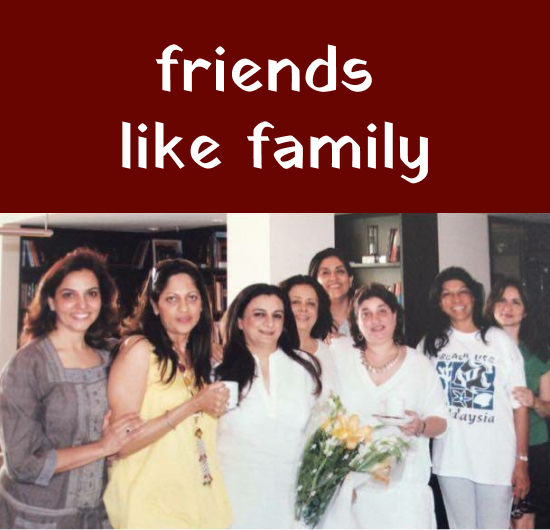
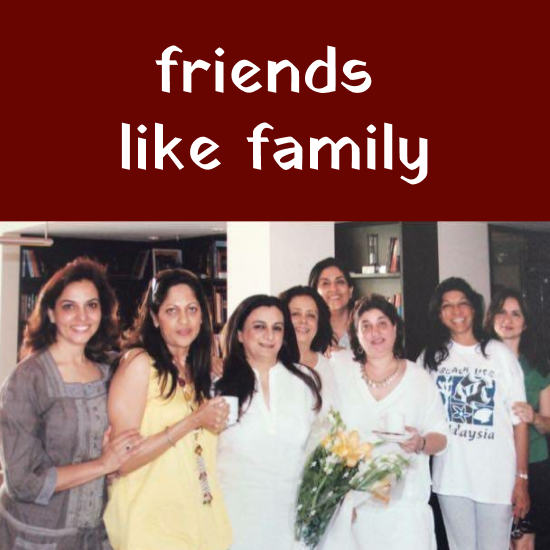
maxwidth, block, padding

diff --git a/cookie.css b/cookie.css
@@ -105,5 +105,11 @@ section, .homepage{
   grid-template-columns: auto auto auto;
   grid-auto-rows: auto auto;
   grid-column-gap: 20px;
-  grid-row-gap: 100px;
+  grid-row-gap: 50px;
+  padding: 50px;
+}
+
+.home-page-image{
+  max-width: 100%;
+  display: block;
 }
